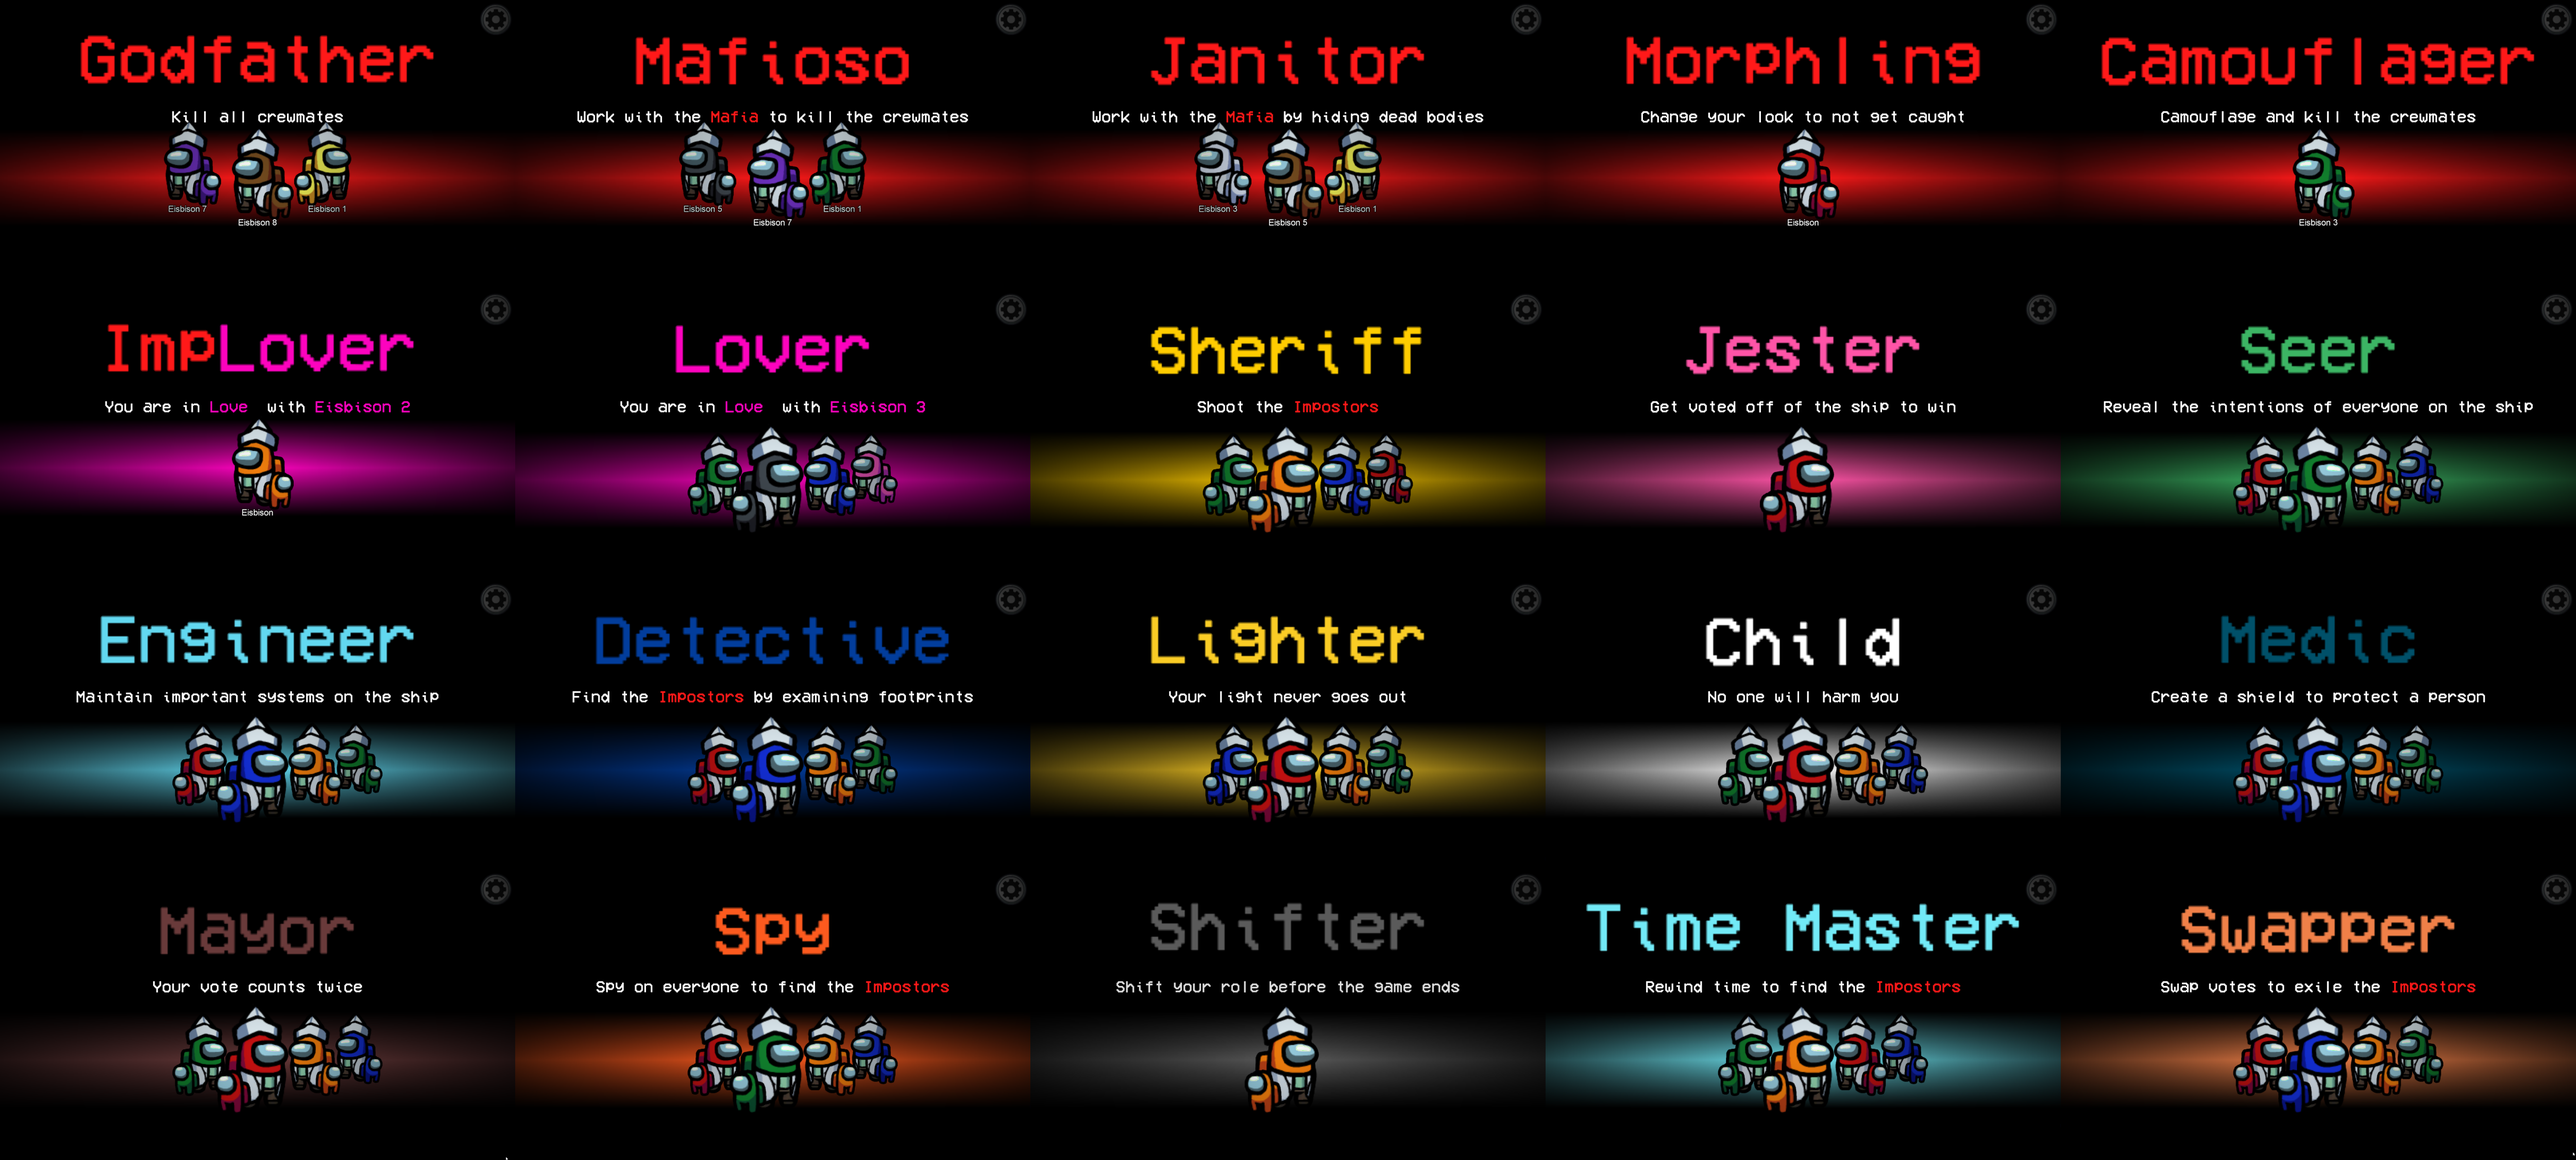
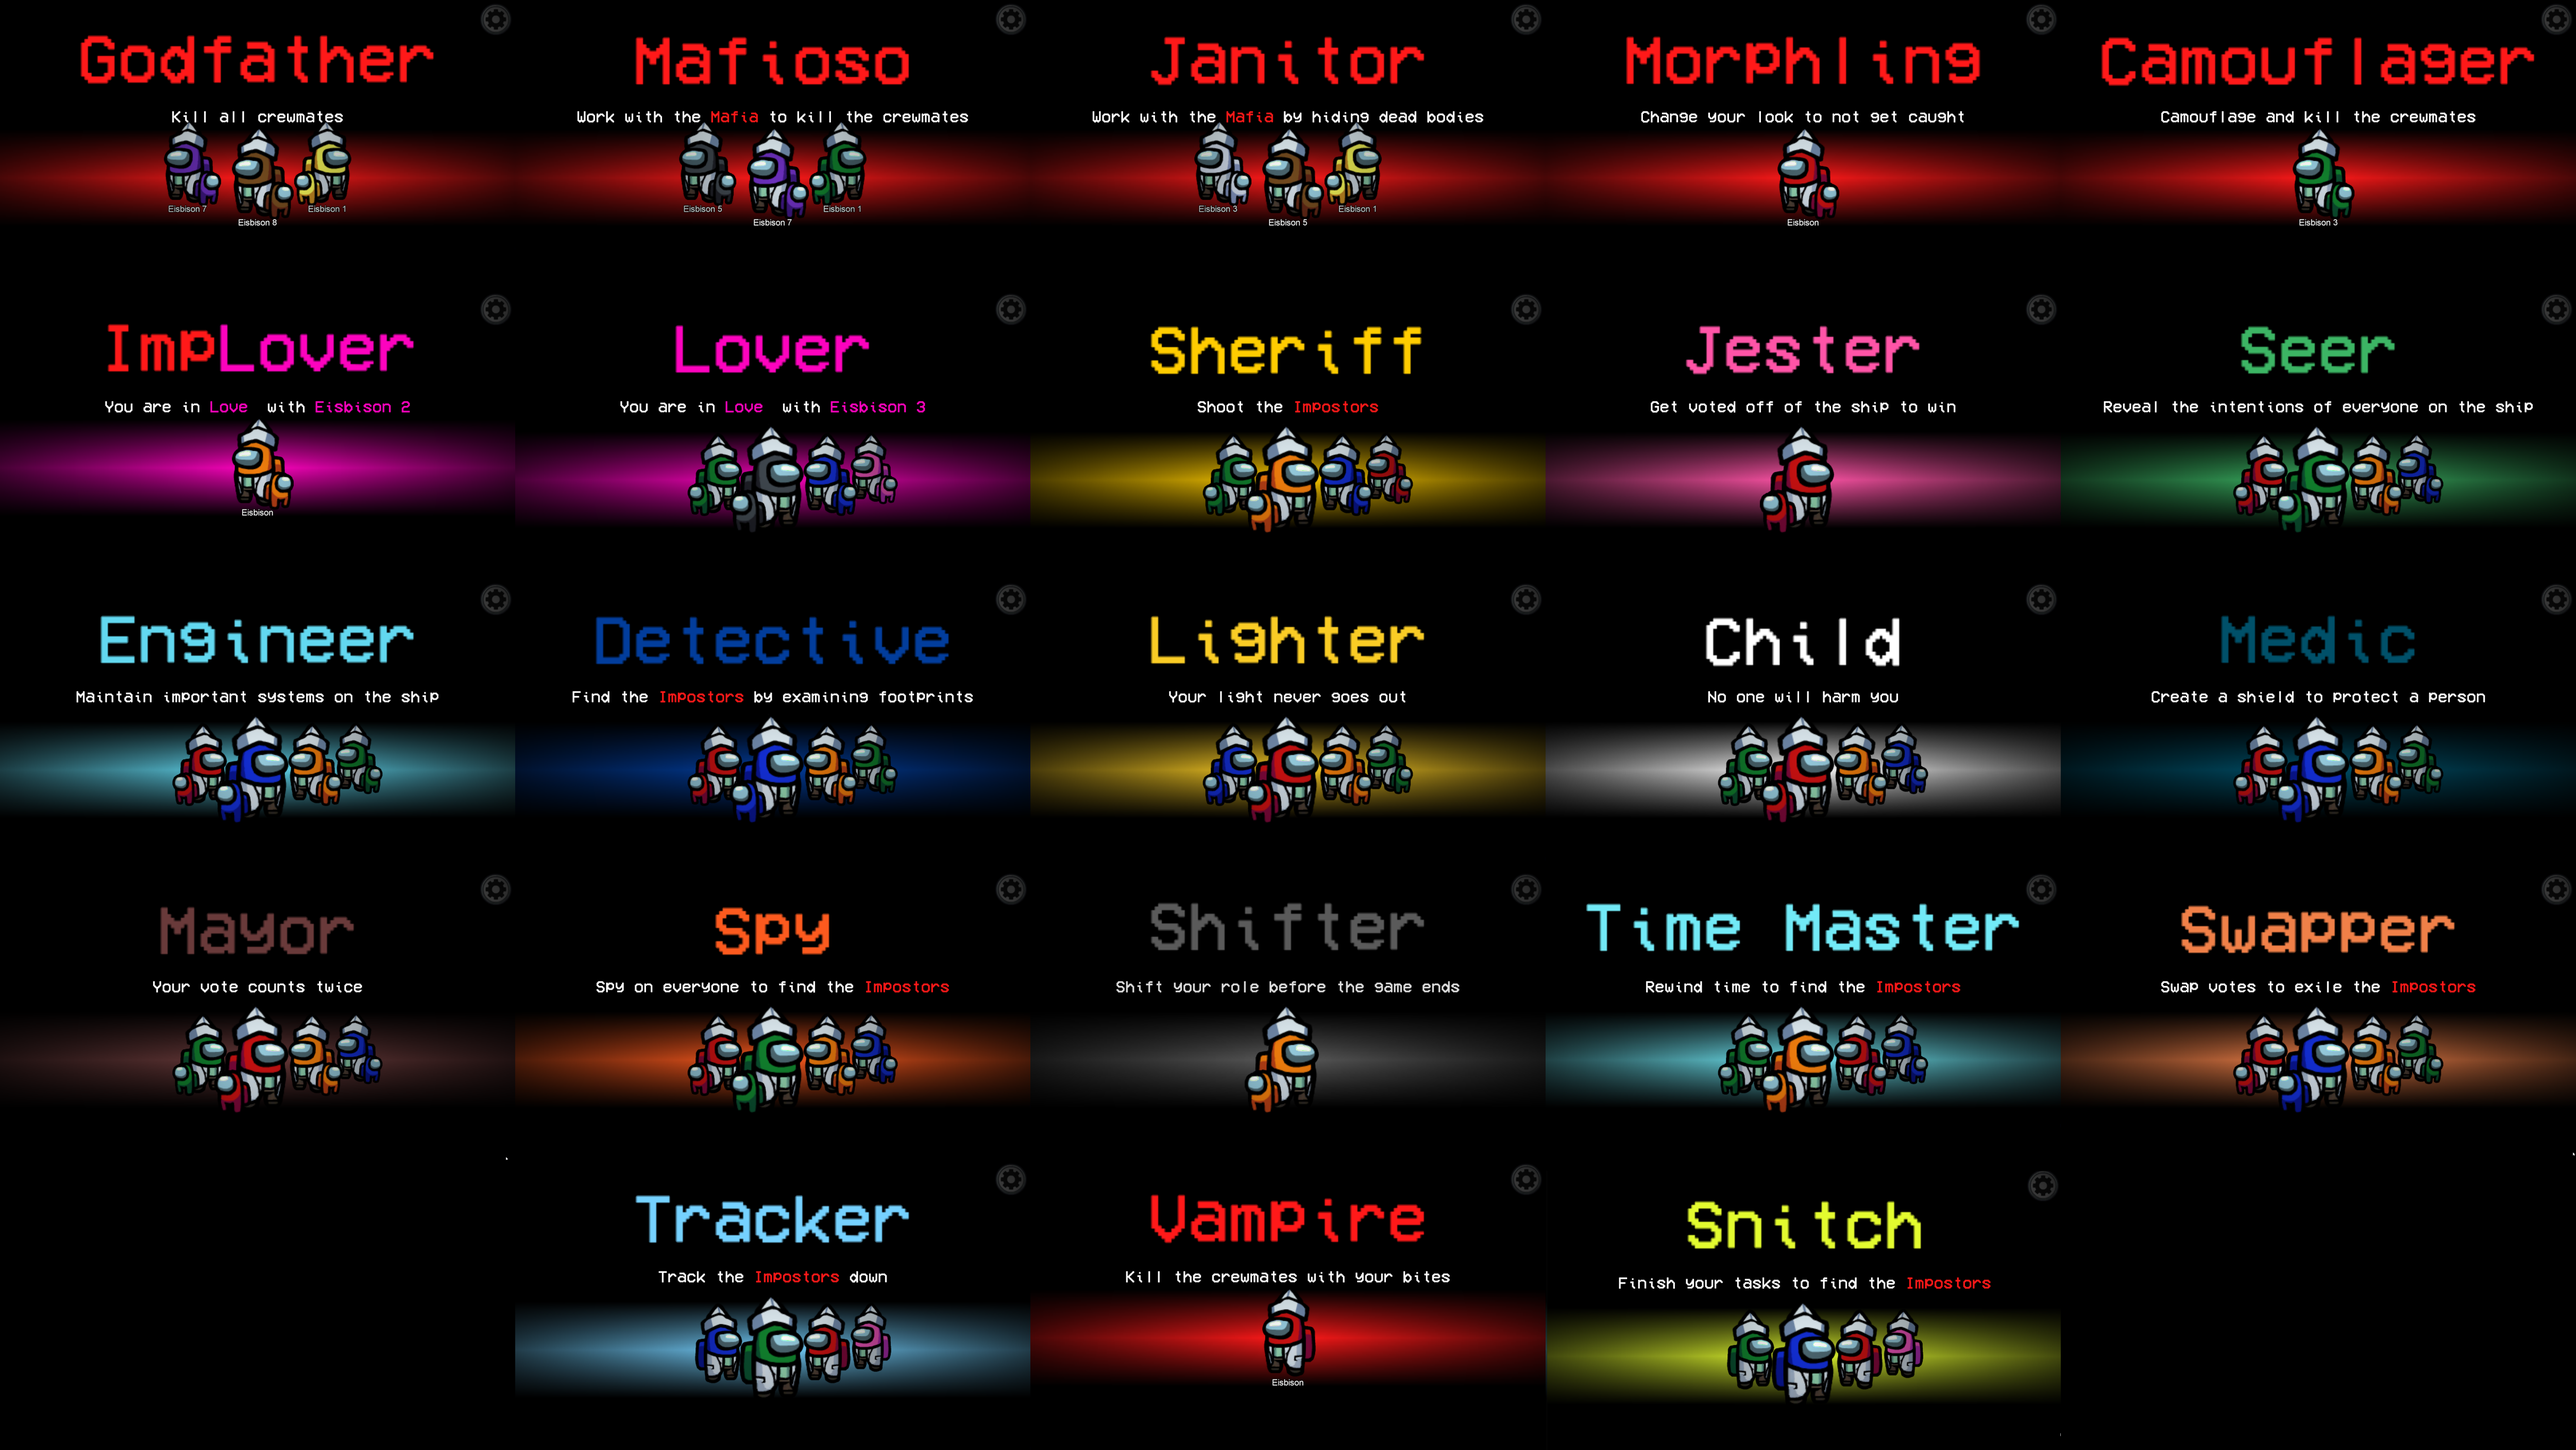
Update README.md according to version v1.7

diff --git a/README.md b/README.md
@@ -14,6 +14,7 @@ Even more roles are coming soon :)
   - Mafioso
 - [Morphling](#morphling)
 - [Camouflager](#camouflager)
+- [Vampire](#vampire)
 - [Lovers](#lovers)
   - Lover
   - ImpLover
@@ -30,17 +31,27 @@ Even more roles are coming soon :)
 - [Shifter](#shifter)
 - [Time Master](#time-master)
 - [Swapper](#swapper)
+- [Tracker](#tracker)
+- [Snitch](#snitch)
+
 
 
 # Releases :
 | Among Us - Version| Mod Version | Link |
 |----------|-------------|-----------------|
+| 2021.3.5s | v1.7 | [Download](https://github.com/Eisbison/TheOtherRoles/releases/download/v1.7/TheOtherRoles.zip)
 | 2021.3.5s | v1.6 | [Download](https://github.com/Eisbison/TheOtherRoles/releases/download/v1.6/TheOtherRoles.zip)
 | 2021.3.5s | v1.5 | [Download](https://github.com/Eisbison/TheOtherRoles/releases/download/v1.5/TheOtherRoles.zip)
 | 2021.3.5s | v1.4 | [Download](https://github.com/Eisbison/TheOtherRoles/releases/download/v1.4/TheOtherRoles.zip)
 | 2021.3.5s | v1.3 | [Download](https://github.com/Eisbison/TheOtherRoles/releases/download/v1.3/TheOtherRoles.zip)
 | 2020.12.19s | v1.1 | [Download](https://github.com/Eisbison/TheOtherRoles/releases/download/v1.1/TheOtherRoles.zip)
 | 2020.12.19s | v1.0 | [Download](https://github.com/Eisbison/TheOtherRoles/files/6097191/TheOtherRoles.zip) |
+
+\
+**Changes in v1.6:**
+- **New Roles:** The Vampire, the Tracker and the Snitch are now in the game
+- The role assignment system has been changed
+- Impstors now see a blue outline around all vents of the map, if the Engineer sits inside one of them
 
 \
 **Changes in v1.6:**
@@ -74,7 +85,7 @@ Even more roles are coming soon :)
 - A bug was removed where the game of the Lovers crashed if they were the last players killed by the host of the lobby.
 
 # Installation 
-1. Download and unzip the newest [release](https://github.com/Eisbison/TheOtherRoles/releases/download/v1.6/TheOtherRoles.zip)
+1. Download and unzip the newest [release](https://github.com/Eisbison/TheOtherRoles/releases/download/v1.7/TheOtherRoles.zip)
 2. Find the folder of your game, for steams players you can right click in steam, on the game, a menu will appear proposing you to go to the folders.3. Make a copy of your game, it's not obligatory but advise, put it where you want.
 4. Drag or extract the files from the zip into your game, at the .exe level.
 6. Run the game (the first launch might take a while)
@@ -154,6 +165,23 @@ are hidden and all players have the same color.
 | Camouflager Cooldown | -
 -----------------------
 
+## Vampire
+### **Team: Impostors**
+The Vampire is an impostor, that can bite other player. Bitten players die after a configurable amount of time.\
+If the Vampire spawn chance is greater 0 (even if there is no Vampire in the game), all players can place one garlic.\
+If a victim is near a garlic, the "Bite Button" turns into the default "Kill Button" and the Vampire can only perform a normal kill.
+\
+**NOTE**
+- If a bitten player is still alive when a meeting is being called, he dies at the start of the meeting.
+- The cooldown is the same as the default kill cooldown (+ the kill delay if the Vampire bites the target).
+
+### Game Options
+| Name | Description |
+|----------|:-------------:|
+| Vampire Spawn Chance | -
+| Vampire Kill Delay | -
+-----------------------
+
 ## Lovers
 ### **Team: Either Crewmates or Impostors**
 There are always two lovers which are linked together.\
@@ -213,7 +241,7 @@ The Seer can make mistakes (how many depends on the selected option). If a mista
 
 \
 **NOTE**
-- **Good players:** Crewmates with all their special roles\
+- **Good players:** Crewmates with all their special roles
 - **Bad players:** Impostors with all their special roles (Mafia, Morphling, Camouflager, ImpLover) and the neutral roles (Jester, Shifter)
 - **Cooldown:** The cooldown of the Seer wil **not** be reset after a meeting (in order to balance the option to reveal roles)
 - If the role of a revealed player changes during the game (because of e.g. the Shifter), the information of the Seers also adapts.
@@ -233,7 +261,8 @@ The Seer can make mistakes (how many depends on the selected option). If a mista
 ## Engineer
 ### **Team: Crewmates**
 The Engineer (if alive) can fix one sabotage per game from anywhere on the map.\
-The Engineer can use vents.
+The Engineer can use vents. If the Engineer is inside a vent, the impostors will see a blue outline
+around all vents on the map (in order to warn them).
 Because of the vents the Engineer might not be able to start some tasks using the "Use" button,
 you can double click on the tasks instead.
 \
@@ -253,6 +282,7 @@ The Detective can see footprints that other players leave behind.
 **NOTE**
 - Even when the Morphling changes their appearance or the Camouflager camouflages everyone, the
 Detective still sees the right (original) colors.
+- The detective does not see footprints of players that sit in vents
 
 ### Game Options
 | Name | Description |
@@ -393,6 +423,31 @@ and can't fix lights and comms.
 | Name | Description
 |----------|:-------------:|
 | Swapper Spawn Chance | -
+-----------------------
+
+## Tracker
+### **Team: Crewmates**
+The Tracker can select one player in a game and tracks this player for the rest of the game.
+An arrow points to the last tracked position of the player.
+The arrow updates it's position every few seconds (configurable).
+
+### Game Options
+| Name | Description
+|----------|:-------------:|
+| Tracker Spawn Chance | -
+| Tracker Update Intervall | Sets how often the position is being updated
+-----------------------
+
+## Snitch
+### **Team: Crewmates**
+When the Snitch finshes all the tasks, arrows will appear (only visible to the Snitch) that point to the impostors.
+When the Snitch has one task left (configurable) the Snitch will be revealed to the impostors, also with an arrow.
+
+### Game Options
+| Name | Description
+|----------|:-------------:|
+| Snitch Spawn Chance | -
+| Task Count Where Impostors See Snitch | -
 -----------------------
 
 # Source code
